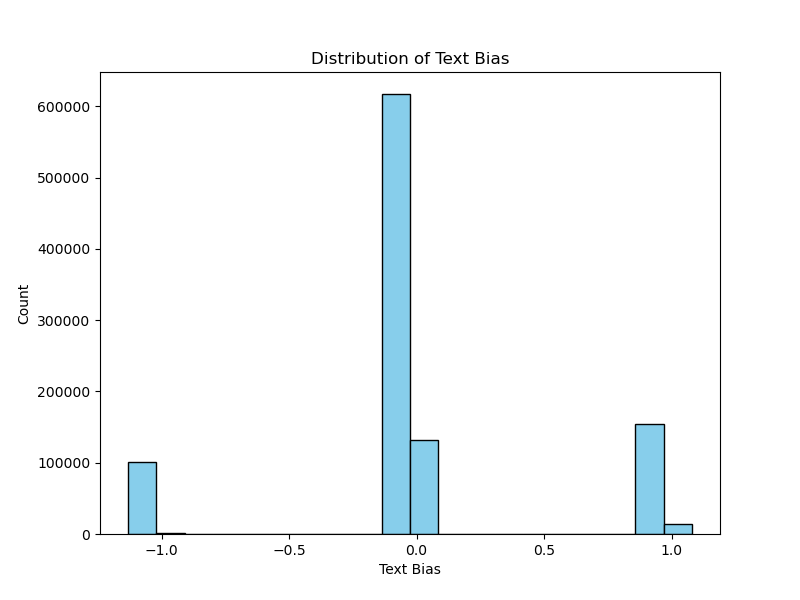
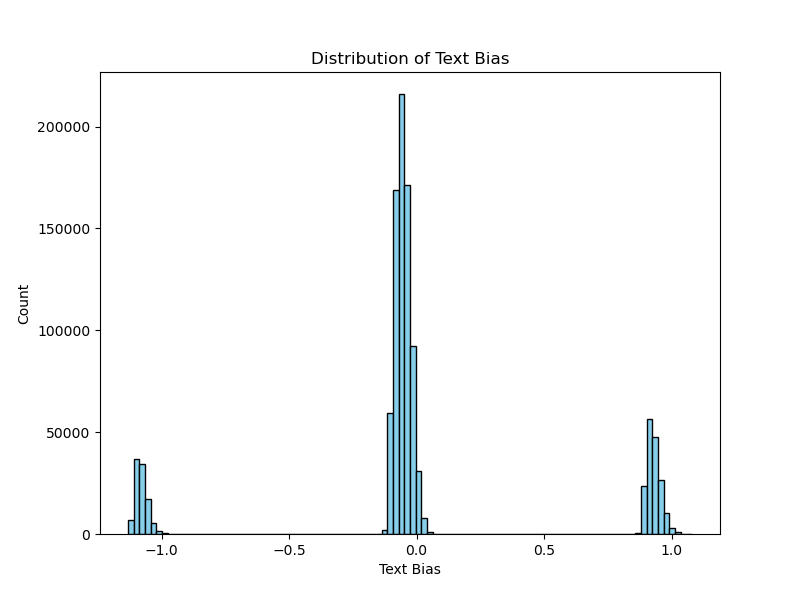
Update graphs generated

diff --git a/bias_quant/eda.py b/bias_quant/eda.py
@@ -82,7 +82,7 @@ ax.legend(legend_labels, colors.keys(), loc="lower right")
 ax.tick_params(axis="y", labelsize=8)
 
 # Improve spacing by adjusting margins
-plt.subplots_adjust(left=0.3, right=0.95, top=0.95, bottom=0.05)
+plt.subplots_adjust(left=0.2, right=0.95, top=0.95, bottom=0.05)
 
 plt.savefig("bias_representation.png")
 plt.show()
@@ -102,7 +102,7 @@ combined_histogram_data = combined_histogram_data.dropna(subset=['text_bias'])
 
 # Plot histogram of the text_bias distribution
 plt.figure(figsize=(8, 6))
-plt.hist(combined_histogram_data['text_bias'], bins=20, color='skyblue', edgecolor='black')
+plt.hist(combined_histogram_data['text_bias'], bins=100, color='skyblue', edgecolor='black')
 plt.xlabel("Text Bias")
 plt.ylabel("Count")
 plt.title("Distribution of Text Bias")
